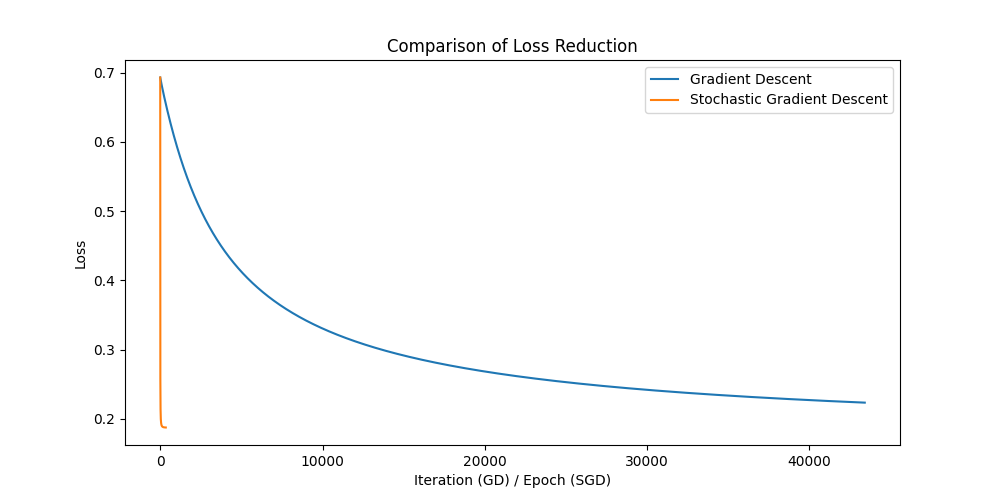
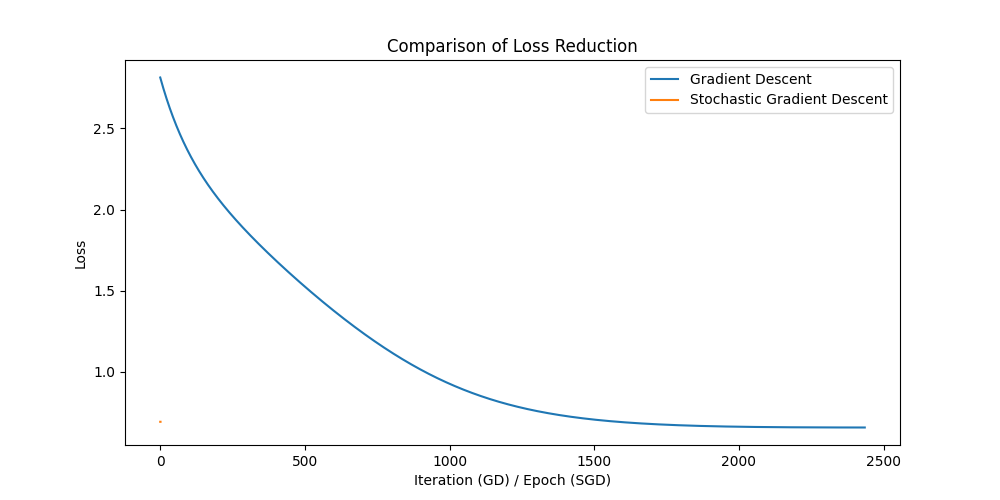
old weights are cleared

diff --git a/logistic.py b/logistic.py
@@ -75,13 +75,12 @@ class LogisticRegression:
     
     def full_batch(self, X, y, is_regularized=False):
         num_samples, num_features = X.shape
-        self.weights = np.zeros(num_features)
         self.bias = 0
         self.algorithm = "full_batch"
         losses = []
         if is_regularized:
             self.regularization_param = self.calculate_regularization_param(X, y)
-        
+        self.weights = np.zeros(num_features)
         # Gradient descent
         for _ in range(self.max_iterations):
             linear_model = np.dot(X, self.weights) + self.bias
@@ -91,6 +90,9 @@ class LogisticRegression:
             # Compute gradients
             dw = (1 / num_samples) * np.dot(X.T, (y_predicted - y)) + self.regularization_param * self.weights
             db = (1 / num_samples) * np.sum(y_predicted - y)
+            # if is_regularized:
+            #     print("logistic dw", dw)
+            #     print("logistic db", db)
             # print(self.weights)
             # Update parameters
             self.weights -= self.learning_rate * dw
@@ -110,6 +112,7 @@ class LogisticRegression:
 
         if is_regularized:
             self.regularization_param = self.calculate_regularization_param(X, y)
+        self.weights = np.zeros(num_features)
         # Stochastic Gradient descent
         for _ in range(self.max_iterations):
             linear_model = np.dot(X, self.weights) + self.bias
@@ -124,6 +127,9 @@ class LogisticRegression:
                 # Compute gradients
                 dw = sample * (y_predicted - label) + self.regularization_param * self.weights
                 db = y_predicted - label
+                # if is_regularized:
+                #     print(dw)
+                #     print(db)
                 # print(self.weights)
                 # Update parameters
                 self.weights -= self.learning_rate * dw
@@ -132,7 +138,7 @@ class LogisticRegression:
             self.learning_rate *= self.decay_rate
             if len(losses) > 1 and np.abs(losses[-1] - losses[-2]) < self.tolerance:
                 break
-        print(len(losses))
+        # print(len(losses))
 
         return losses
 
@@ -145,6 +151,7 @@ class LogisticRegression:
     
     def calculate_regularization_param(self, X_train, y_train, num_folds=5):
         # Split data into folds
+        _, num_features = X_train.shape
         fold_size = len(X_train) // num_folds
         folds_X = [X_train[i*fold_size:(i+1)*fold_size] for i in range(num_folds)]
         folds_y = [y_train[i*fold_size:(i+1)*fold_size] for i in range(num_folds)]
@@ -153,12 +160,13 @@ class LogisticRegression:
         regularization_params = []
         accuracies = []
         
-        for ln_lambda in range(0, -51, -5):
+        for ln_lambda in range(0, -21, -5):
             lambda_val = np.exp(ln_lambda)
-            self.regularization_param = lambda_val
             accuracy_sum = 0
             # Cross-validation
             for i in range(num_folds):
+                self.weights = np.zeros(num_features)
+
                 X_val = folds_X[i]
                 y_val = folds_y[i]
                 X_tr = np.concatenate([folds_X[j] for j in range(num_folds) if j != i])
@@ -174,7 +182,7 @@ class LogisticRegression:
             accuracies.append(accuracy_sum / num_folds)
         
         best_param = regularization_params[np.argmax(accuracies)]
-        print(f"Best regularization parameter: {best_param}")
+        print(f"Best regularization parameter: {best_param}, {np.log(best_param)}")
         return best_param
 
 # Example usage:
